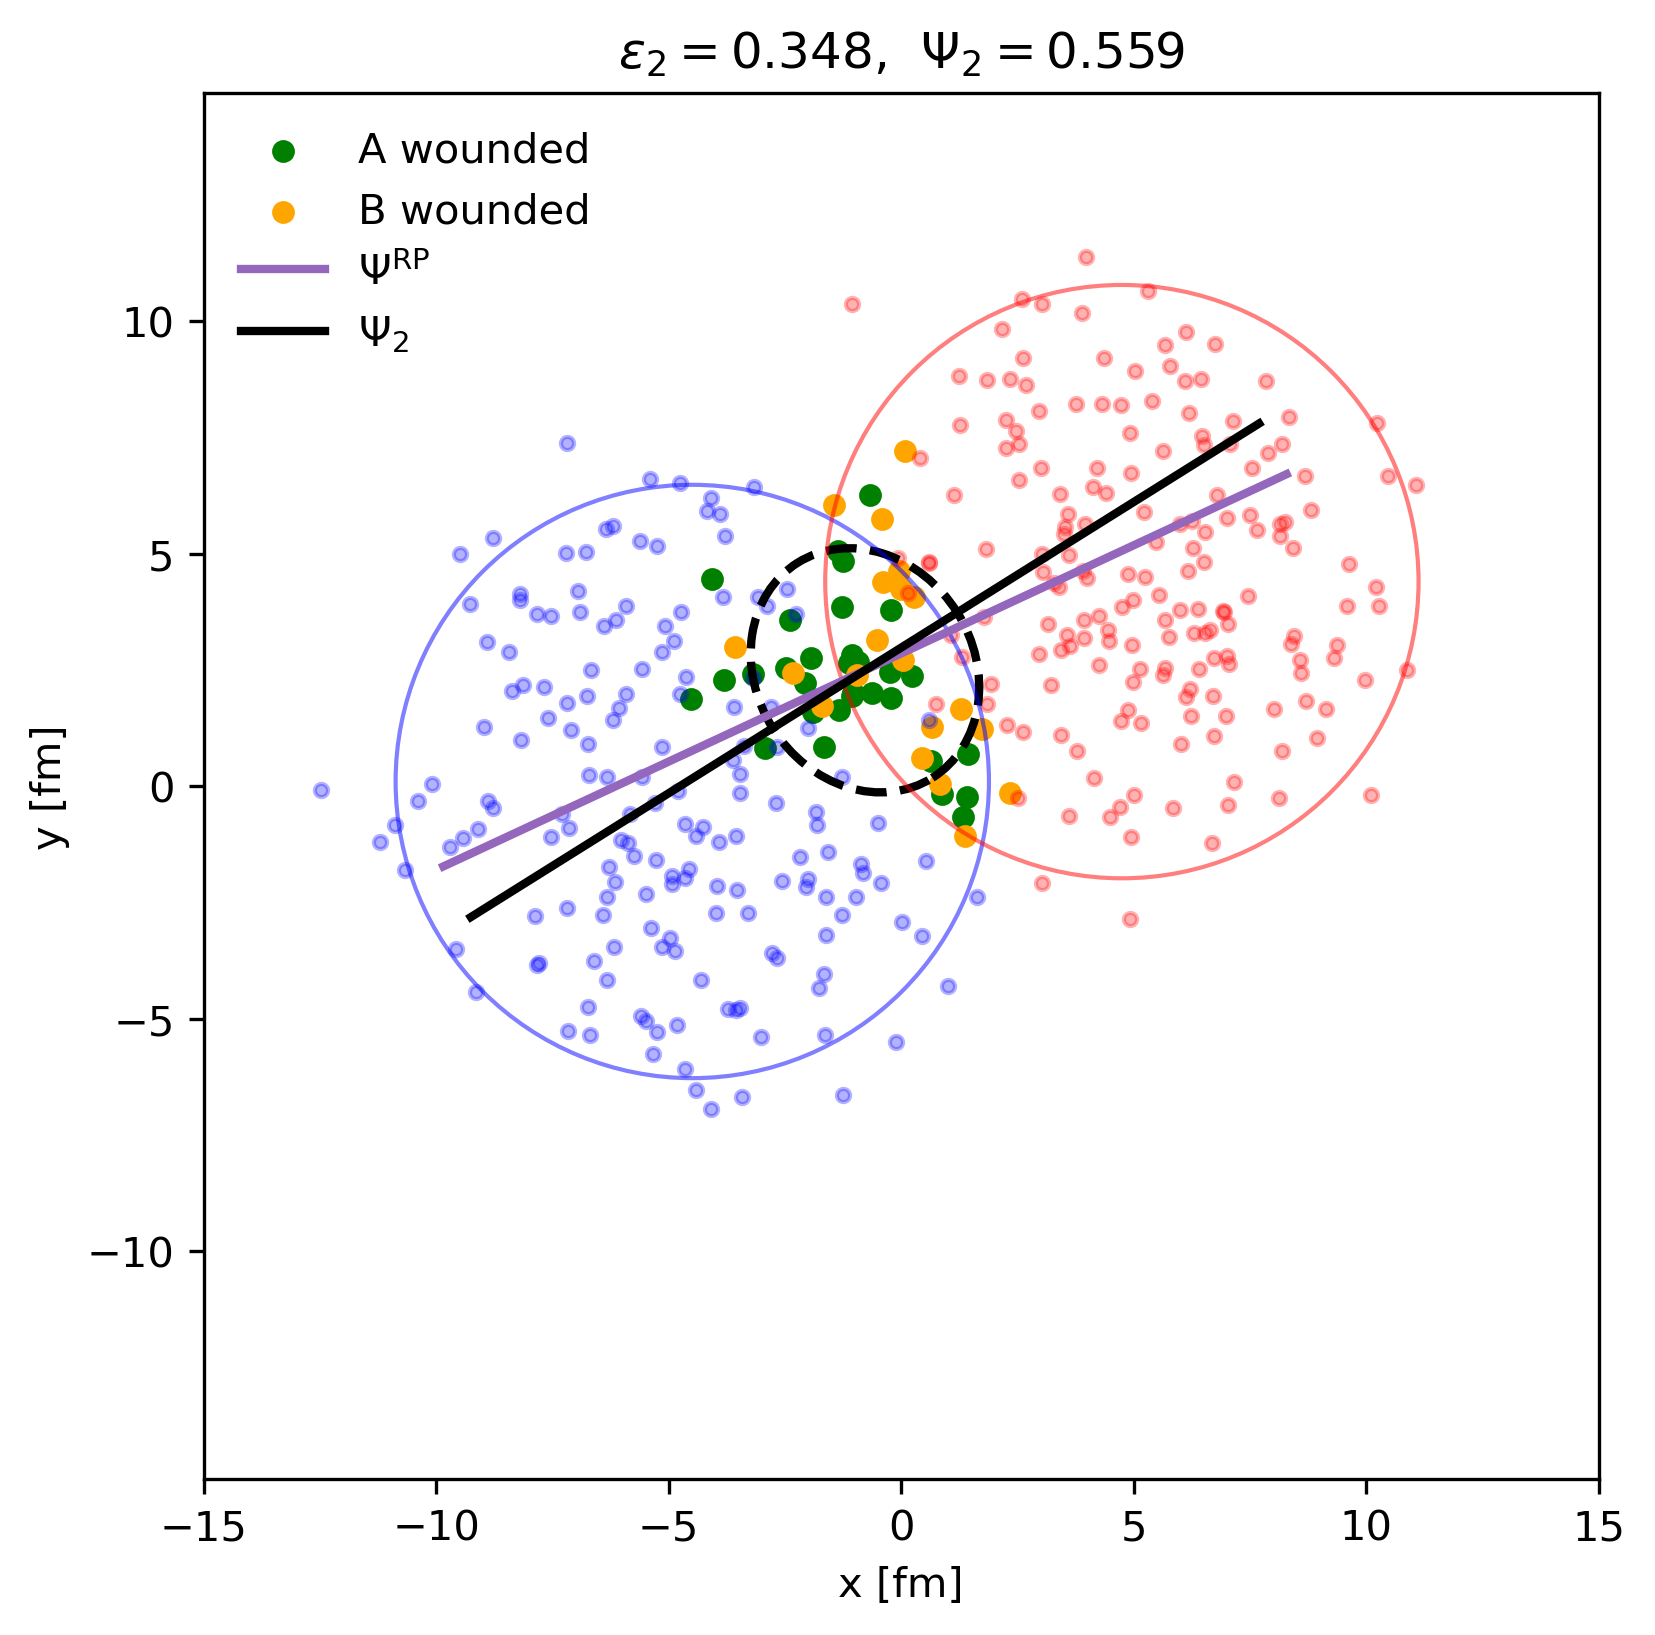
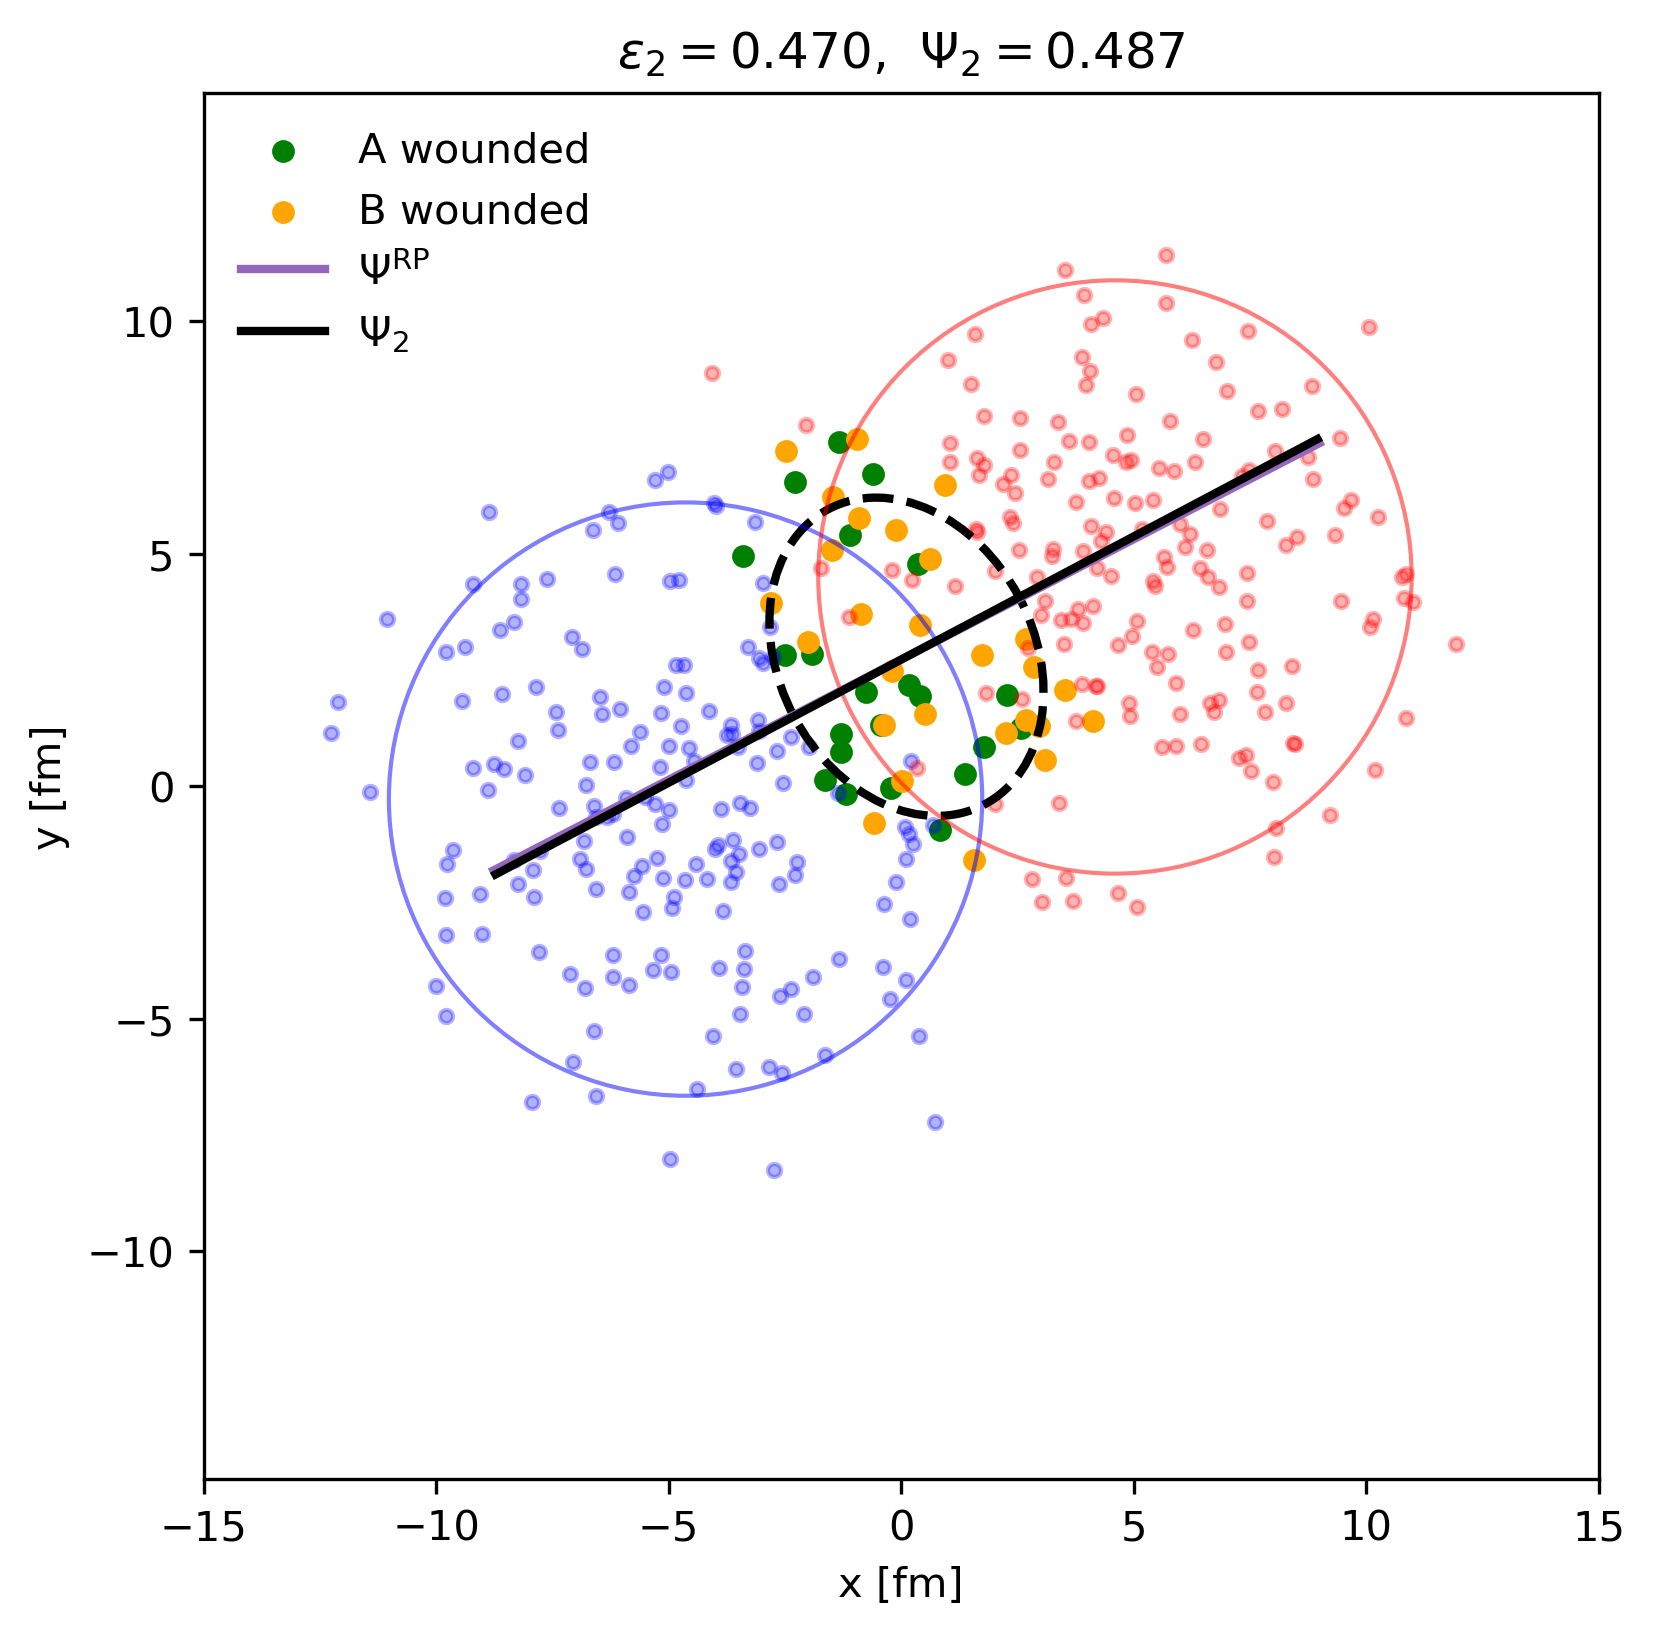
final 2.0

Changed region(s): [[0.2157, 0.156, 0.8628, 0.6862], [0.6471, 0.0, 0.7088, 0.0624], [0.4622, 0.0, 0.5239, 0.0624]]

diff --git a/utils/glauber.py b/utils/glauber.py
@@ -18,9 +18,12 @@ def sample_woods_saxon(A, R, a, dmin):
   """
   rmax = 15.0 # same as TGlauber
 
-  # r_grid = np.linspace(0.0, rmax, 1000)
-  # fmax = np.max(sample_f(r_grid, R, a))
-  fmax = 400.0 # precomputed maximum of sample_f for R=6.38, a=0.535, rmax=15.0 - should find a better way to do this
+  
+  # should be fast, since only done once per nucleus and done in numpy
+  r_grid = np.linspace(0.0, rmax, 1000)
+  fmax = np.max(sample_f(r_grid, R, a))
+  # print("fmax",fmax)
+  #fmax = 400.0 # precomputed maximum of sample_f for R=6.38, a=0.535, rmax=15.0 - should find a better way to do this
 
   coords = []
   while len(coords) < A:

diff --git a/plot_collision.py b/plot_collision.py
@@ -33,9 +33,9 @@ def collision_plane():
   par = setup()
   b=9.0 
   nuc1 = Nuclei(par)
-  nuc1.sample_ws()
+  nuc1.sample_fws()
   nuc2 = Nuclei(par)
-  nuc2.sample_ws()
+  nuc2.sample_fws()
 
   #nuc1[:,1]+=b/4
   nuc2[:,1]+=b/2

diff --git a/README.md b/README.md
@@ -49,8 +49,8 @@ There are also a plotting script which produces figures in the "figures" folder:
 python plot_collision.py --v <argument>
 ```
 The argument supported are:
-- "collision": plots a sample collision.
-- "animation": creates an animation of the collision process.
+- "col": plots a sample collision.
+- "anim": creates an animation of the collision process.
 
 
 The results from main.py are also saved as a plot in the "figures" folder, showing some different relevant observables, such as the number of participants as a function of impact parameter, but also the time the program took to run for the different implementations.
@@ -74,9 +74,10 @@ Pure Fortran implementation:
 
 ## Performance
 Reported for a range of b-values (0,20) in 0.05 increment step with 50 events generated per b.
-The pure python code is quite clearly disadvantageous. With a total running time of 902.85 seconds. Just changing the generator to fortran as well as the collision finder, speeds up the program by a factor of ~276, which is not surprising as python struggles where loops are required.
-Going from the part fortran to almost fully implemented fortran code only gains a factor of ~1.2 in gain. This is of course without any parallelization. It is quite clear that the while loop for generating events is the slowest part of the code in python, second is the collision finder. From there on, things can be optimized, but a significant gain in performance is unlikely to be achieved. The interesting part is also that since for the generator we are required to do a while loop, no vectorization can be done, and as such fortran or any other low level language is really required to increase the computational performance. 
+The pure python code is quite clearly disadvantageous. With a total running time of 800 seconds. Just changing the generator to fortran as well as the collision finder, speeds up the program by a factor of ~270, which is not surprising as python struggles where loops are required.
+Going from the part fortran to almost fully implemented fortran code only gains a factor of ~1.3 in gain. This is of course without any parallelization. It is quite clear that the while loop for generating events is the slowest part of the code in python, second is the collision finder. From there on, things can be optimized, but a significant gain in performance is unlikely to be achieved. The interesting part is also that since for the generator we are required to do a while loop, no vectorization can be done, and as such fortran or any other low level language is really required to increase the computational performance. 
 
 ## References
 [1] https://arxiv.org/abs/nucl-ex/0701025 \
 [2] https://tglaubermc.hepforge.org/
+[3] https://arxiv.org/pdf/nucl-ex/0701025
